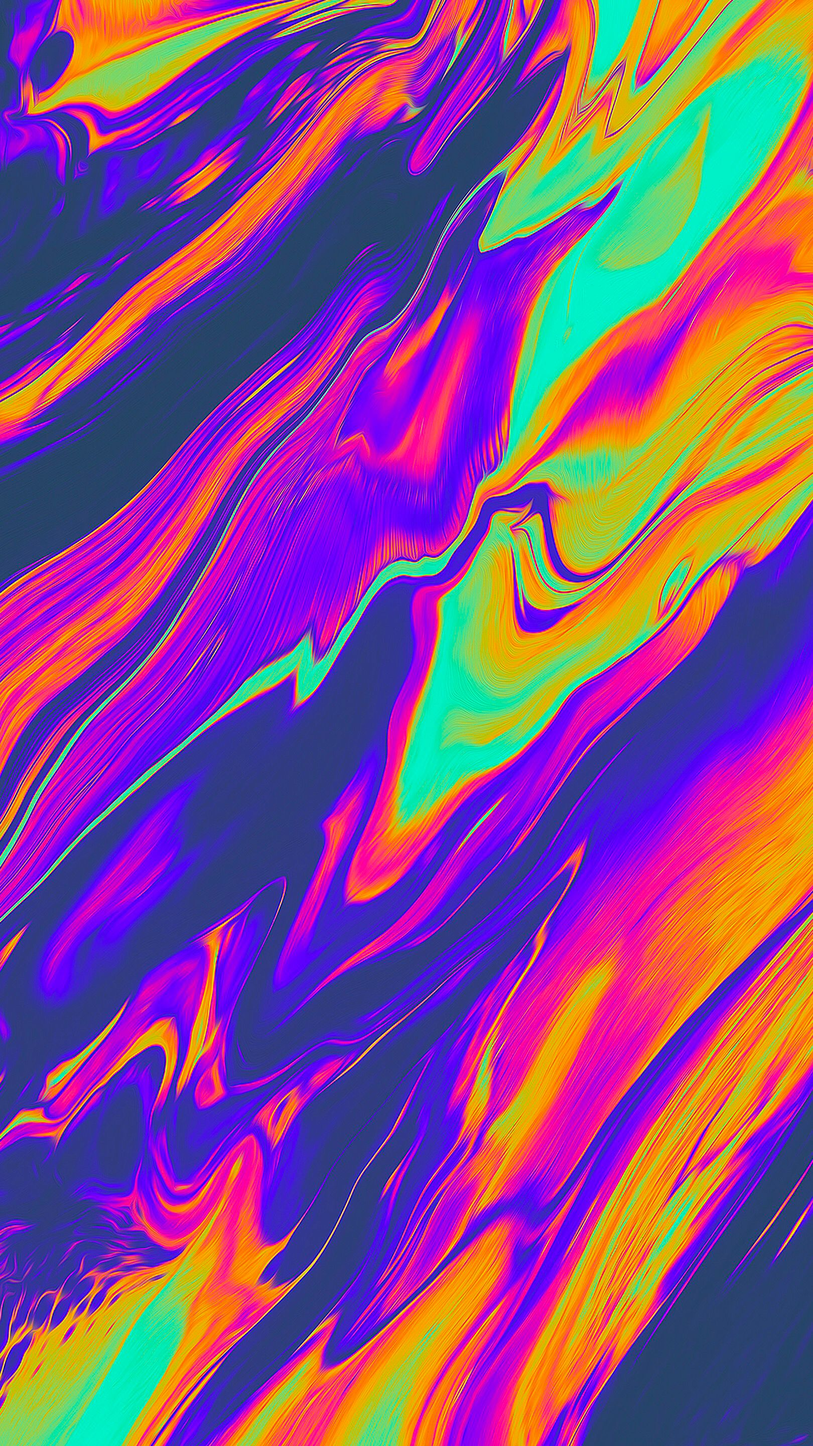
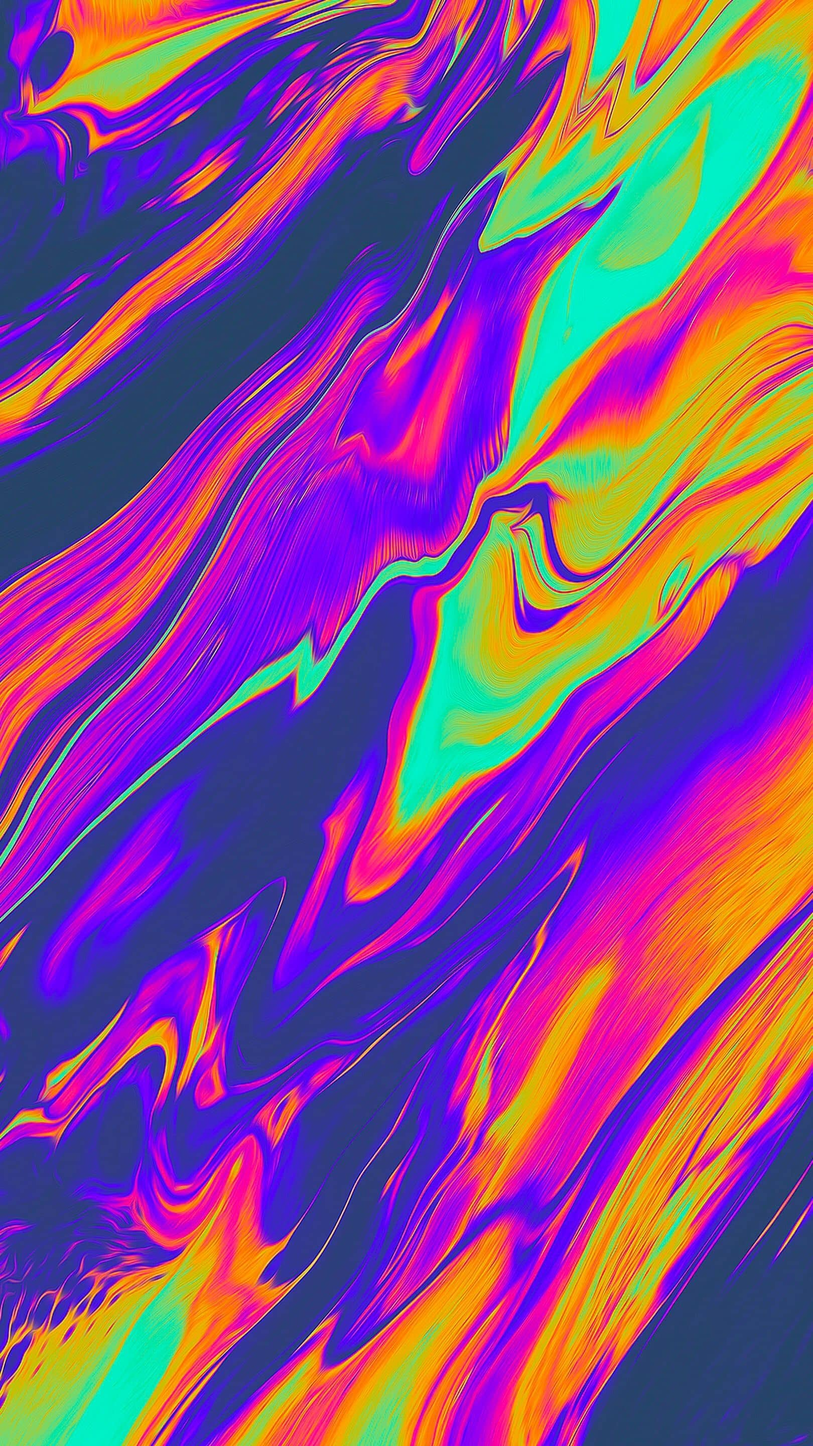
compressed the images

diff --git a/gatsby-config.js b/gatsby-config.js
@@ -12,7 +12,63 @@ module.exports = {
         stripMetadata: false
       }
     },
+    {
+      resolve: 'gatsby-plugin-local-search',
+      options: {
+        // A unique name for the search index. This should be descriptive of
+        // what the index contains. This is required.
+        name: 'pictures',
 
+        // Set the search engine to create the index. This is required.
+        // The following engines are supported: flexsearch, lunr
+        engine: 'flexsearch',
+
+        // GraphQL query used to fetch all data for the search index. This is
+        // required.
+        query: `
+          {
+            allFile(sort: { fields: birthtime }) {
+              edges {
+                node {
+                  name
+                  id
+                  base
+                  birthTime(fromNow: true)
+                  relativeDirectory
+                  publicURL
+                  ext
+                  mode
+                  dir
+                  relativeDirectory
+                }
+              }
+            }
+          }
+        `,
+
+        // Field used as the reference value for each document.
+        // Default: 'id'.
+        ref: 'id',
+
+        // List of keys to store and make available in your UI. The values of
+        // the keys are taken from the normalizer function below.
+        // Default: all fields
+        store: ['id', 'name', 'relativeDirectory','base','dir','ext'],
+
+        // Function used to map the result from the GraphQL query. This should
+        // return an array of items to index in the form of flat objects
+        // containing properties to index. This is required.
+        normalizer: ({ data }) =>
+          data.allFile.edges.map(({ node }) => ({
+            id: node.id,
+            name: node.name,
+            relativeDirectory: node.relativeDirectory,
+            base: node.base,
+            dir: node.dir,
+            ext: node.ext,
+          })),
+      },
+    },
     `gatsby-transformer-sharp`,
     `gatsby-plugin-theme-ui`,
     {

diff --git a/src/components/AddRepo.js b/src/components/AddRepo.js
@@ -6,7 +6,9 @@ import zebra from "../images/zebra.png";
 function AddRepo() {
   return (
     <div className="my-8">
-      <h2 className="text-2xl text-center">Add our repo to your favorite package manager</h2>
+      <h2 className="text-2xl text-center">
+        Add our repo to your favorite package manager
+      </h2>
       <div className="flex flex-wrap">
         <div className="w-1/2">
           <a
@@ -15,7 +17,11 @@ function AddRepo() {
             href="cydia://url/https://cydia.saurik.com/api/share#?source=https://mozart409.github.io/repo/"
           >
             <figure>
-              <img src={cydia} className="w-16 float-left "></img>
+              <img
+                src={cydia}
+                className="w-16 float-left "
+                alt="Cydia Icon"
+              ></img>
             </figure>
             <p className="float-left p-2 text-xl">Add to Cydia</p>
           </a>
@@ -30,6 +36,7 @@ function AddRepo() {
               <img
                 src={zebra}
                 className="w-16 float-right border-2 border-gray-700 border-solid rounded-lg hover:border-dashed"
+                alt="Zebra Icon"
               ></img>
             </figure>
             <p className="float-right p-2 text-xl">Add to Zebra</p>

diff --git a/src/components/header.js b/src/components/header.js
@@ -4,7 +4,7 @@ import { graphql, useStaticQuery, Link } from "gatsby";
 
 import { Alert, Input } from "antd";
 
-import favicon from "../images/favicon.png"
+import favicon from "../images/favicon.png";
 
 import "antd/dist/antd.css";
 
@@ -25,7 +25,11 @@ function Header({ siteTitle }) {
       <nav id="MenuColor" className="MenuItems">
         <div className="flex flex-wrap items-center align-center justify-between max-w-4xl mx-auto p-4 md:p-8">
           <Link to="/" className="flex items-center no-underline text-white">
-            <img src={favicon} className="rounded-lg w-24 border-solid border-2 border-white mr-4" alt="WPlus Logo"></img>
+            <img
+              src={favicon}
+              className="rounded-lg w-24 border-solid border-2 border-white mr-4"
+              alt="WPlus Logo"
+            ></img>
             <span className="text-xl font-semibold">
               {Query2.allFile.totalCount} Wallpapers
             </span>
